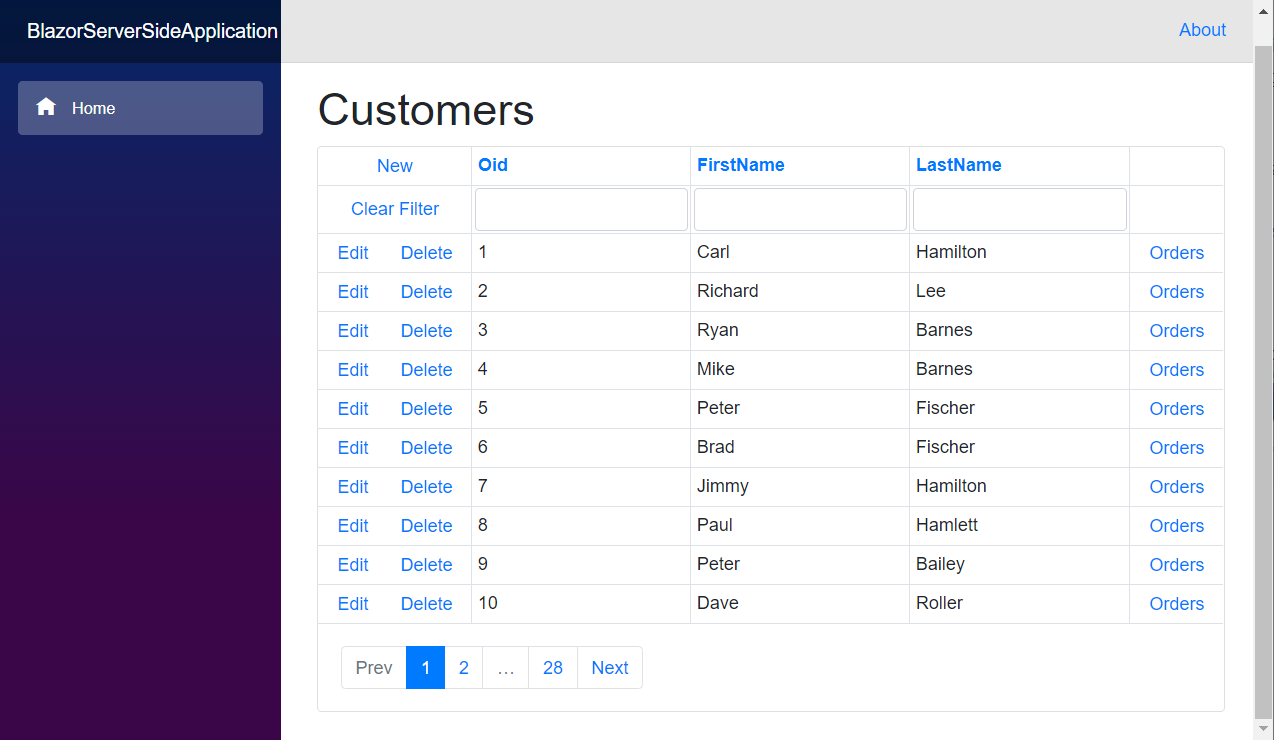
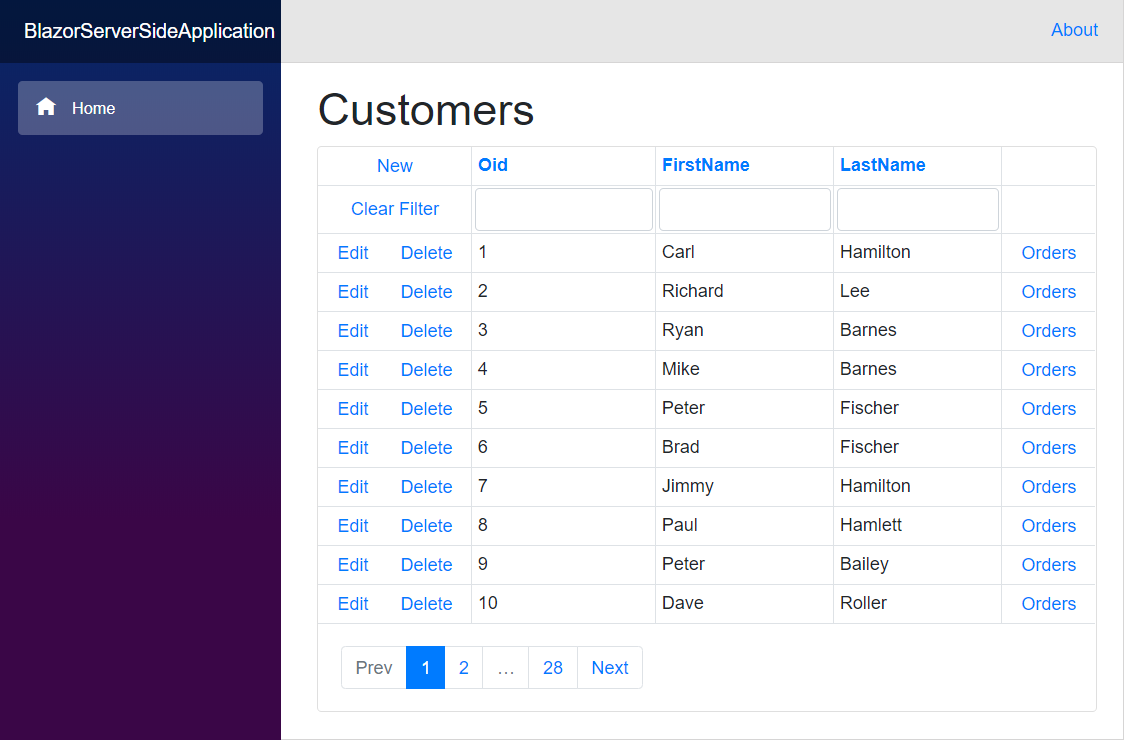
apply editor changes

diff --git a/Tutorials/ASP.NET/Blazor.ServerSide/CS/README.MD b/Tutorials/ASP.NET/Blazor.ServerSide/CS/README.MD
@@ -1,9 +1,9 @@
 ## Overview
 
-This tutorial demonstrates how to create a server-side Blazor application that uses the XPO ORM to access a data storage. For demonstration purposes, this tutorial uses the [in-memory data source](https://docs.devexpress.com/XPO/DevExpress.Xpo.DB.InMemoryDataStore). In this tutorial, the data source stores the data in the JSON format.
+This tutorial demonstrates how to create a server-side Blazor application that uses the DevExpress ORM Library (XPO) to access and manage data. In this tutorial, we store data [in memory](https://docs.devexpress.com/XPO/DevExpress.Xpo.DB.InMemoryDataStore) in the JSON format.
 
 <p align="center">
-  <img width="800" src="/Tutorials/images/Blazor.ServerSide/7.1.png">
+  <img width="562" src="/Tutorials/images/Blazor.ServerSide/7.1.png">
 </p>
 <p align="center">
   <img width="800" src="/Tutorials/images/Blazor.ServerSide/7.2.png">
@@ -16,13 +16,13 @@ This tutorial demonstrates how to create a server-side Blazor application that u
   * **.NET Core cross-platform development**
 * [.NET Core 3.1 SDK or later](https://www.microsoft.com/net/download/all)
 * [Newtonsoft.Json library](https://www.newtonsoft.com/json)
-* [DevExpress UI Components for Blazor (CTP)](https://www.devexpress.com/blazor/)
+* [DevExpress UI Components for Blazor](https://www.devexpress.com/blazor/)
 * [Bootstrap 4.1](https://getbootstrap.com/docs/4.1/getting-started/download/) & [jQuery](https://jquery.com/download/) for Bootstrap's [modal dialog](https://getbootstrap.com/docs/4.1/components/modal/)
 
 
 This app uses the [Server-side hosting model](https://docs.microsoft.com/en-us/aspnet/core/blazor/hosting-models?view=aspnetcore-3.0#server-side).
 
-## Step 1: Create a Blazor (server-side) web app
+## Step 1: Create a Blazor (Server-Side) Web App
 
 1. Open Visual Studio, create a new project.
 2. Search for the **Blazor App** template.
@@ -31,7 +31,8 @@ This app uses the [Server-side hosting model](https://docs.microsoft.com/en-us/a
       <img width="800" src="/Tutorials/images/Blazor.ServerSide/1.1.png">
     </p>
 
-3. Click **Next**, set the project name to **BlazorServerSideApplication** and click **Create**.
+    Click **Next** to proceed.
+3. Set the project name to **BlazorServerSideApplication** and click **Create**.
 
     <p align="center">
       <img width="800" src="/Tutorials/images/Blazor.ServerSide/1.2.png">
@@ -43,7 +44,8 @@ This app uses the [Server-side hosting model](https://docs.microsoft.com/en-us/a
       <img width="800" src="/Tutorials/images/Blazor.ServerSide/1.3.png">
     </p>
 
-5. In **Solution Explorer**, remove the unnecessary **Data** folder and the following files from the **Pages** folder:
+5. In the **Solution Explorer**, remove the unnecessary **Data** folder and the following files from the **Pages** folder:
+
     * *Pages\Counter.razor*
     * *Models\FetchData.razor*
 
@@ -70,28 +72,30 @@ For more information, see the following:
 * [Introduction to Blazor](https://docs.microsoft.com/en-us/aspnet/core/blazor/?view=aspnetcore-3.0)
 * [DevExpress UI for Blazor Demos](https://github.com/DevExpress/Blazor)
 
-## Step 2: Add the DevExpress XPO ORM and Newtonsoft.Json packages with NuGet
+## Step 2: Add the Newtonsoft.Json and DevExpress XPO Packages
 
-### Add the Newtonsoft.Json package
+### Add the Newtonsoft.Json Package
 
-The application in this tutorial uses an in-memory data source for demonstration purposes. In this tutorial, the data source stores the data in the JSON format. To serialize and deserialize data, here we use the [Newtonsoft.Json](https://www.nuget.org/packages/Newtonsoft.Json/) package. Run the following command in Package Manager Console to install the package: 
+The this tutorial, we store data in memory in the JSON format. To serialize and deserialize data, here we use the [Newtonsoft.Json](https://www.nuget.org/packages/Newtonsoft.Json/) package. Run the following command in Package Manager Console to install the package: 
 
 ```console
 Install-Package Newtonsoft.Json -Version 12.0.3
 ```
 
-### Add the XPO ORM package
+### Add the XPO Package
 
 Use any of the following approaches to install the XPO package:
-* Package Manager Console
+
+**Package Manager Console**
+
   * From the Visual Studio **Tools** menu, select **NuGet Package Manager > Package Manager Console**.
   * Make sure **Package source** is set to **All**, **nuget.org** or **DevExpress 20.1 Local** and run the following command: 
      ```console
     Install-Package DevExpress.Xpo -Version 20.1
     ```
-OR
 
-* NuGet Package Manager
+**NuGet Package Manager**
+
   * In **Solution Explorer**, right-click the project name and select **Manage NuGet Packages**. <p align="center"><img width="400" src="/Tutorials/images/Blazor.ServerSide/2.1.png"></p>
   * Make sure **Package source** is set to **All**, **nuget.org** or **DevExpress 20.1 Local** on the right.
   * In the left top corner under **Browse**, search for the `DevExpress.Xpo` package and select its latest version, 20.1, on the right.
@@ -105,9 +109,9 @@ For more information, see the following:
   * https://www.nuget.org/
   * https://nuget.devexpress.com/
 
-## Step 3: Create ORM data model and seed initial data
+## Step 3: Create ORM Data Model and Seed Initial Data
 
-1. In **Solution Explorer**, create the **DataAccess** folder and add the *Customer.cs*, *Order.cs* and *DemoDataHelper.cs* code files. 
+1. In the **Solution Explorer**, create the **DataAccess** folder and add the *Customer.cs*, *Order.cs* and *DemoDataHelper.cs* code files. 
 
 <p align="center">
   <img width="600" src="/Tutorials/images/Blazor.ServerSide/3.1.png">
@@ -125,7 +129,7 @@ For more information, see the following:
   * [Object Relational Mapping](https://docs.devexpress.com/XPO/2017/feature-center/object-relational-mapping)
   * [Persisting Objects](https://docs.devexpress.com/XPO/2025/feature-center/data-exchange-and-manipulation/persisting-objects)
 
-## Step 4: Create helpers for JSON serialization and more
+## Step 4: Create Helpers for JSON Serialization
 
 1. In **Solution Explorer**, create the **Helpers** folder and add the *ApplicationBuilderExtensions.cs* and *JsonPopulateObjectHelper.cs* code files.
 2. Replace their contents with the code copied from [the corresponding files under this folder](https://github.com/DevExpress/XPO/tree/master/Tutorials/ASP.NET/Blazor.ServerSide/CS/Helpers). These files contain the following classes:
@@ -133,16 +137,16 @@ For more information, see the following:
     * `ApplicationBuilderExtensions`: declares the `UseXpoDemoData` extension method. It calls `DemoDataHelper` at the application startup in the next steps.
 
 <p align="center">
-  <img width="400" src="/Tutorials/images/Blazor.ServerSide/4.png">
+  <img src="/Tutorials/images/Blazor.ServerSide/4.png">
 </p>
 
 For more information, see the following:
   * [Serialization using ContractResolver](https://www.newtonsoft.com/json/help/html/ContractResolver.htm)
   * [XPClassInfo](https://docs.devexpress.com/XPO/DevExpress.Xpo.Metadata.XPClassInfo) | [XPMemberInfo](https://docs.devexpress.com/XPO/DevExpress.Xpo.Metadata.XPMemberInfo)
 
-## Step 5: Configure database connection and plug in ORM data model
+## Step 5: Configure Database Connection and Plug in the ORM Data Model
 
-1. In *Startup.cs*, modify the `Startup.ConfigureServices` method to configure Dependency Injection services for JSON serialization, database connection, and CRUD operations using XPO.
+1. In *Startup.cs*, modify the `Startup.ConfigureServices` method to configure Dependency Injection services for JSON serialization, database connection, and CRUD operations with XPO.
 
     Here is the modified code:
 
@@ -212,7 +216,7 @@ For more information, see the following:
     }
     ```
 
-3. In *appsettings.json*, add the connection string for an in-memory or any other [supported data store](https://docs.devexpress.com/XPO/2114/fundamentals/database-systems-supported-by-xpo).
+3. In *appsettings.json*, add the connection string for an in-memory or any other [supported database system](https://docs.devexpress.com/XPO/2114/fundamentals/database-systems-supported-by-xpo).
 
     Here is the modified code:
 
@@ -240,7 +244,7 @@ For more information, see the following:
   * [ASP.NET Core Dependency Injection in XPO](https://www.devexpress.com/Support/Center/Question/Details/T637597/asp-net-core-dependency-injection-in-xpo)
 
 
-## Step 6: Manipulate data in services and bind it to Blazor components
+## Step 6: Manipulate Data in Services. Bind to Blazor Components to Data
 
 1. In **Solution Explorer**, create the **Services** folder and add the *CustomerService.cs* and *OrderService.cs* code files.
 2. Replace their contents with the code copied from [the corresponding files under this folder](https://github.com/DevExpress/XPO/tree/master/Tutorials/ASP.NET/Blazor.ServerSide/CS/Services). They contain the _CustomerService_ and _OrderService_ classes with the `Get`, `Add`, `Update`, and `Delete` API methods that represent [CRUD](https://en.wikipedia.org/wiki/Create,_read,_update_and_delete) operations with the `Customer` and `Order` persistent classes.
@@ -253,7 +257,7 @@ For more information, see the following:
 
 3. In the **wwwroot** folder, create the **lib** sub-folder. This is to store client-side libraries for DevExpress Blazor and other frameworks during development.
     * Download the *bootstrap.min.js* and *jquery-3.5.1.slim.min.js* JavaScript files from [Bootstrap 4.1](https://getbootstrap.com/docs/4.1/getting-started/download/) and [jQuery](https://jquery.com/download/) respectively. 
-    * Open the [Getting Started - Configure a Blazor Application](https://docs.devexpress.com/Blazor/401057/getting-started/configure-a-blazor-application) tutorial, and follow steps **2-4** to add DevExpress Blazor into the project.
+    * Open the [Getting Started - Configure a Blazor Application](https://docs.devexpress.com/Blazor/401057/getting-started/configure-a-blazor-application) tutorial, and follow steps **2-4** to add DevExpress UI components for Blazor into the project.
     * Place the Bootstrap and jQuery client-side libraries inside the **wwwroot/lib** sub-folder as follows: <p align="center"><img src="/Tutorials/images/Blazor.ServerSide/6.1.png"></p>
     * In *Pages/_Host.cshtml*, register DevExpress, Bootstrap and jQuery client-libraries using the **script** and **link** elements:
 
@@ -288,18 +292,18 @@ For more information, see the following:
   * [Unit of Work](https://docs.devexpress.com/XPO/2138/feature-center/connecting-to-a-data-store/unit-of-work)
 
 
-## Step 7: Run and test the app
+## Step 7: Run and Test the App
 
 1. Build and run the application with **F5**. The web browser should show the _Customers_ list. You can create, edit or delete customers.
-2. You can also view and edit their related orders in a separate form.
+2. You can also view and edit customer related orders in a separate form.
 <p align="center">
-  <img width="800" src="/Tutorials/images/Blazor.ServerSide/7.1.png">
+  <img width="562" src="/Tutorials/images/Blazor.ServerSide/7.1.png">
 </p>
 <p align="center">
   <img width="800" src="/Tutorials/images/Blazor.ServerSide/7.2.png">
 </p>
 
-## Known issues
+## Known Issues
 
 * The *Edit Orders* may display 'XXX  Wrong YYY data value type: ZZZ' instead of the OrderDate, Freight and other editors different from text boxes.
 * The *System.ArgumentOutOfRangeException: 'Index was out of range. Must be non-negative and less than the size of the collection.'* error may occur at DevExtreme.AspNet.Data when deleting data under certain circumstances.
